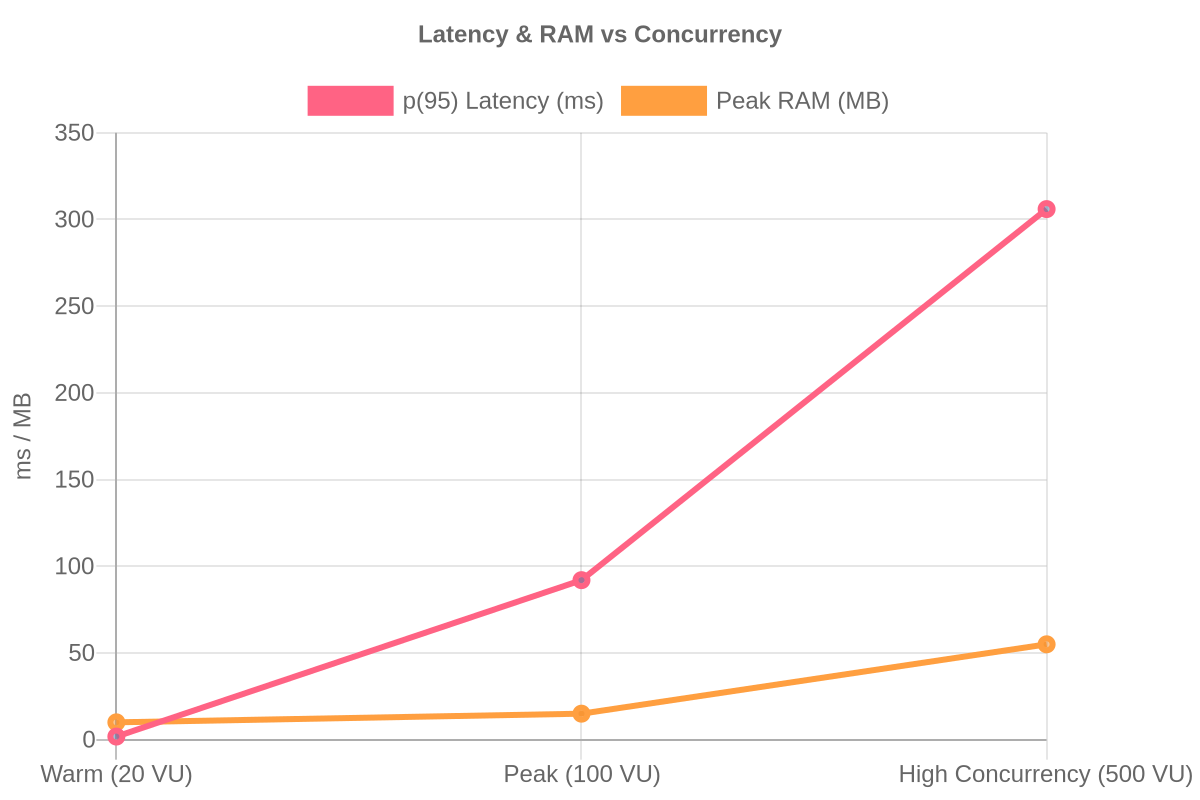
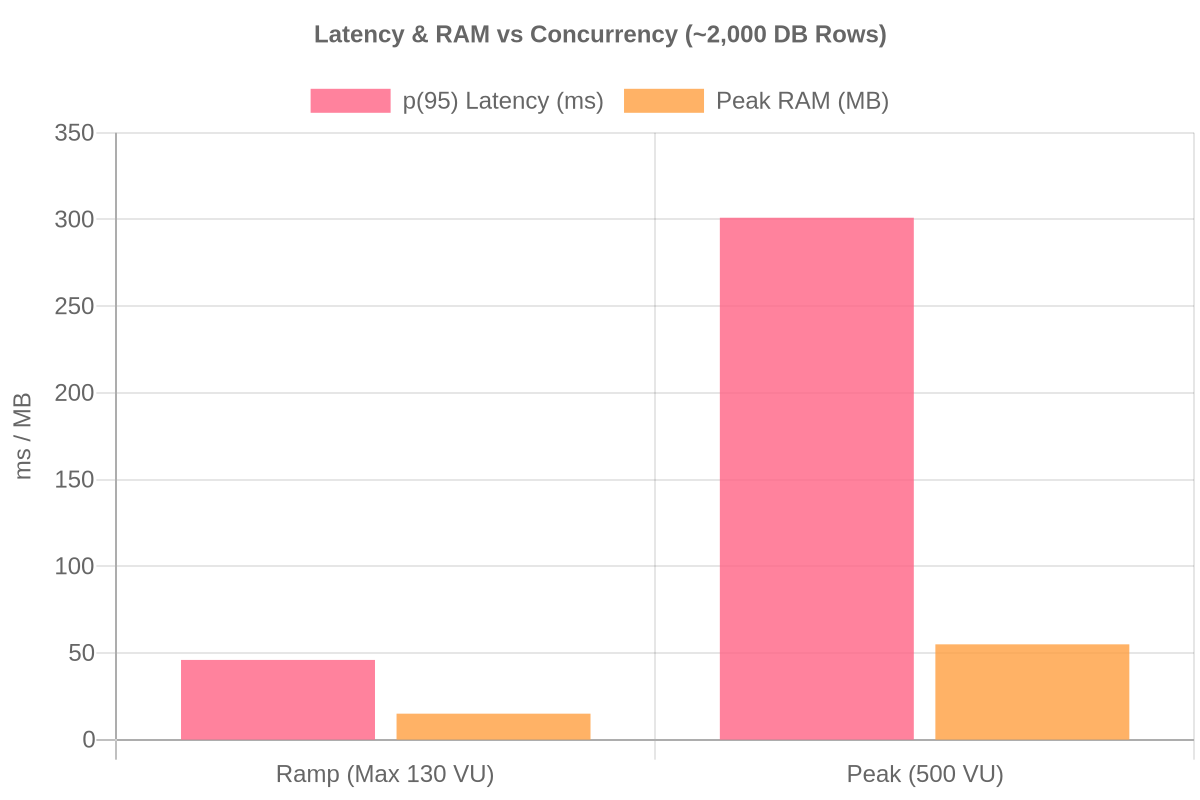
chore: update bench tests

diff --git a/cmd/seed/main.go b/cmd/seed/main.go
@@ -13,8 +13,8 @@ import (
 	"github.com/kyzercmd/cadence/internal/config"
 )
 
-var numUsers = 20
-var numProjects = 10
+var numUsers = 150
+var numProjects = 25
 
 var (
 	roles         = []string{"admin", "hr", "employee"}
@@ -63,7 +63,7 @@ func main() {
 	fmt.Printf("Inserted %v projects.\n", numProjects)
 
 	for _, pID := range projectIDs {
-		for range 4 {
+		for range 5 {
 			uID := userIDs[gofakeit.Number(0, numUsers-1)]
 			_, err := tx.Exec(ctx, `INSERT INTO project_members (project_id, user_id) VALUES ($1, $2) ON CONFLICT DO NOTHING`, pID, uID)
 			if err != nil {
@@ -71,7 +71,7 @@ func main() {
 			}
 		}
 
-		for range 5 {
+		for range 10 {
 			tID := uuid.New()
 			_, err := tx.Exec(ctx, `INSERT INTO tasks (id, project_id, name, description, status, priority, estimate_hours, due_date) VALUES ($1, $2, $3, $4, $5, $6, $7, $8)`, tID, pID, gofakeit.VerbAction(), gofakeit.Sentence(10), taskStatuses[gofakeit.Number(0, 3)], priorities[gofakeit.Number(0, 2)], gofakeit.Number(1, 30), gofakeit.DateRange(time.Now().AddDate(0, 0, -7), time.Now().AddDate(0, 0, 14)))
 			if err != nil {

diff --git a/README.md b/README.md
@@ -38,33 +38,33 @@ The backend is a REST API written in Go. It uses a layered architecture (Handler
 ## Performance Benchmarks
 
 **Target**: `GET /api/search?q=<term>` (Admin role, 3 concurrent DB queries per request)  
-**Constraint**: 0.5 vCPU / 256 MB RAM (Go Application)  
-**Tool**: k6 (Note: Application rate limiter disabled during tests)
+**Constraint**: 0.5 vCPU / 256 MB RAM  
+**Dataset Size**: ~2,000 rows  
+**Tool**: Grafana k6
 
-![Throughput RPS](docs/bench_rps.jpg)
-![Latency and RAM](docs/bench_latency_ram.jpg)
+<p align="center">
+  <img src="docs/bench_rps.jpg" width="48%" />
+  <img src="docs/bench_latency_ram.jpg" width="48%" />
+</p>
 
 ### Results
 
 | Scenario       | Concurrency (VUs) | Throughput (RPS) | p(95) Latency | Peak RAM | CPU Usage | Error Rate |
 | -------------- | ----------------- | ---------------- | ------------- | -------- | --------- | ---------- |
-| Baseline       | 20                | 18               | 1.8ms         | ~10 MB   | ~3%       | 0%         |
-| CPU Saturated  | 100               | 1,393            | 92ms          | ~15 MB   | ~50%      | 0%         |
-| Pool Exhausted | 500               | 1,407            | 306ms         | ~55 MB   | ~50%      | 0%         |
+| CPU Boundary   | Ramp (Max 130)    | 558              | 46.5ms        | ~15 MB   | ~50%      | 0%         |
+| Pool Exhausted | 500               | 1,424            | 301.7ms       | ~55 MB   | ~50%      | 0%         |
 
-### Key Findings
+- **Safe Capacity (~550 RPS)**: The application processes requests smoothly up to roughly ~550 RPS.
+- **Absolute Ceiling (~1,424 RPS)**: The server can physically process a maximum of ~1,424 requests per second, but latency degrades significantly as users wait in the queue.
+- **Connection Pooling**: At 500 concurrent connections, the database pool is exhausted. Requests are queued, resulting in a 0% error rate but inflating p(95) latency to 301.7ms as connections are awaited.
+- **Memory Efficiency**: The server uses ~11 MB at idle/low load and peaked at ~55 MB under extreme congestion.
 
-- **Safe Capacity (~850 RPS)**: The application processes requests instantly up to roughly 850 RPS.
-- **Absolute Ceiling (~1,400 RPS)**: The server can physically process a maximum of ~1,400 requests per second, but latency degrades significantly as users wait in the queue.
-- **Connection Pooling**: At 500 concurrent connections, the database pool is exhausted. Requests are queued, resulting in a 0% error rate but inflating p(95) latency to 306ms as connections are awaited.
-- **Memory Efficiency**: The server requires ~11 MB at idle/low load and peaked at ~55 MB under extreme congestion.
+### Reproduce
 
-### Reproduction
-
-Start the application with Docker constraints applied, retrieve an admin JWT token, and execute the load script:
+Start the application with Docker constraints applied, retrieve an admin JWT token, and execute the load script (might have to seed db and remove rateLimiter Middleware):
 
 ```bash
-# 1. Start bounded containers (explicitly applying benchmark constraints)
+# 1. Start bounded containers
 docker compose -f compose.yaml -f compose.bench.yaml up --build -d
 
 # 2. Find CPU boundary (Arrival rate ramp)
